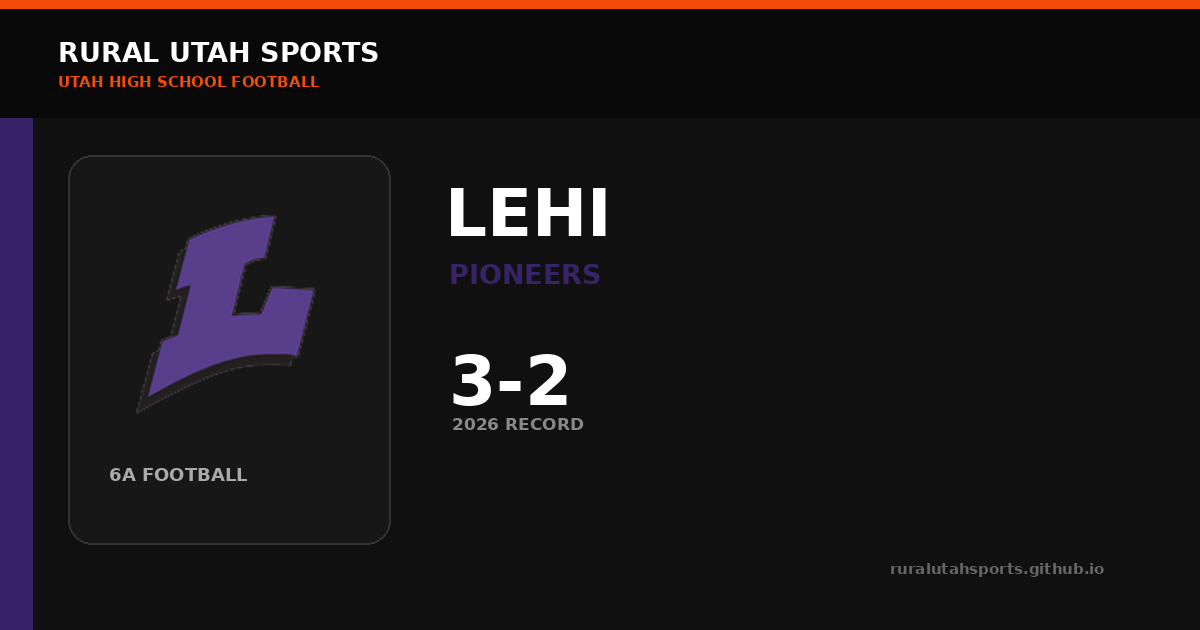
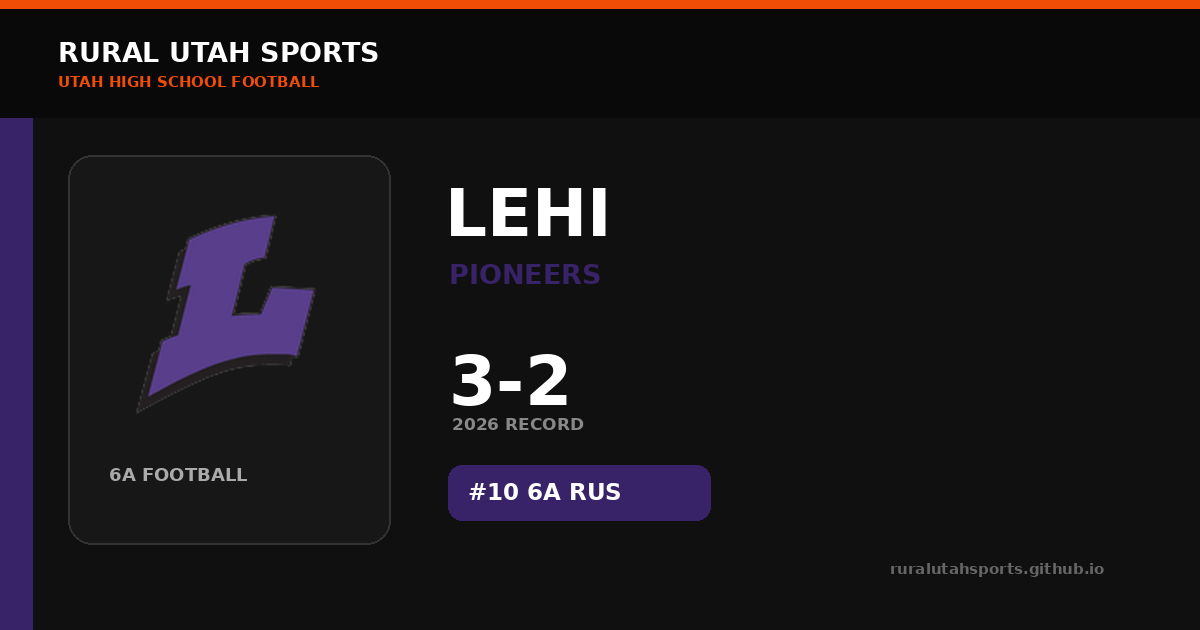
Auto-build social share previews

Changed region(s): [[0.37, 0.7238, 0.6167, 0.8444]]

diff --git a/share/team/american-fork/index.html b/share/team/american-fork/index.html
@@ -1,5 +1,5 @@
 <!doctype html><html lang="en"><head><meta charset="utf-8"><meta name="viewport" content="width=device-width,initial-scale=1">
-<title>American Fork Cavemen Football | Rural Utah Sports</title><meta name="description" content="2026 6A football • 4-1 • #3 6A RUS. Team history, games, rankings, ELO and stats."><meta name="robots" content="noindex,follow"><link rel="canonical" href="https://ruralutahsports.github.io/rural-utah-sports/team.html?team=AMERICAN%20FORK">
-<meta property="og:type" content="website"><meta property="og:site_name" content="Rural Utah Sports"><meta property="og:title" content="American Fork Cavemen Football | Rural Utah Sports"><meta property="og:description" content="2026 6A football • 4-1 • #3 6A RUS. Team history, games, rankings, ELO and stats."><meta property="og:url" content="https://ruralutahsports.github.io/rural-utah-sports/share/team/american-fork/"><meta property="og:image" content="https://ruralutahsports.github.io/rural-utah-sports/share-images/teams/american-fork.png"><meta property="og:image:width" content="1200"><meta property="og:image:height" content="630">
-<meta name="twitter:card" content="summary_large_image"><meta name="twitter:title" content="American Fork Cavemen Football | Rural Utah Sports"><meta name="twitter:description" content="2026 6A football • 4-1 • #3 6A RUS. Team history, games, rankings, ELO and stats."><meta name="twitter:image" content="https://ruralutahsports.github.io/rural-utah-sports/share-images/teams/american-fork.png"><meta http-equiv="refresh" content="0;url=https://ruralutahsports.github.io/rural-utah-sports/team.html?team=AMERICAN%20FORK">
+<title>American Fork Cavemen Football | Rural Utah Sports</title><meta name="description" content="2026 6A football • 4-1 • #4 6A RUS. Team history, games, rankings, ELO and stats."><meta name="robots" content="noindex,follow"><link rel="canonical" href="https://ruralutahsports.github.io/rural-utah-sports/team.html?team=AMERICAN%20FORK">
+<meta property="og:type" content="website"><meta property="og:site_name" content="Rural Utah Sports"><meta property="og:title" content="American Fork Cavemen Football | Rural Utah Sports"><meta property="og:description" content="2026 6A football • 4-1 • #4 6A RUS. Team history, games, rankings, ELO and stats."><meta property="og:url" content="https://ruralutahsports.github.io/rural-utah-sports/share/team/american-fork/"><meta property="og:image" content="https://ruralutahsports.github.io/rural-utah-sports/share-images/teams/american-fork.png"><meta property="og:image:width" content="1200"><meta property="og:image:height" content="630">
+<meta name="twitter:card" content="summary_large_image"><meta name="twitter:title" content="American Fork Cavemen Football | Rural Utah Sports"><meta name="twitter:description" content="2026 6A football • 4-1 • #4 6A RUS. Team history, games, rankings, ELO and stats."><meta name="twitter:image" content="https://ruralutahsports.github.io/rural-utah-sports/share-images/teams/american-fork.png"><meta http-equiv="refresh" content="0;url=https://ruralutahsports.github.io/rural-utah-sports/team.html?team=AMERICAN%20FORK">
 <style>body{margin:0;background:#111;color:#fff;font:16px Arial,sans-serif;display:grid;place-items:center;min-height:100vh}a{color:#F14D07;font-weight:800}</style></head><body><p>Opening <a href="https://ruralutahsports.github.io/rural-utah-sports/team.html?team=AMERICAN%20FORK">American Fork Cavemen Football | Rural Utah Sports</a>…</p><script>location.replace("https://ruralutahsports.github.io/rural-utah-sports/team.html?team=AMERICAN%20FORK");</script></body></html>

diff --git a/share/team/copper-hills/index.html b/share/team/copper-hills/index.html
@@ -1,5 +1,5 @@
 <!doctype html><html lang="en"><head><meta charset="utf-8"><meta name="viewport" content="width=device-width,initial-scale=1">
-<title>Copper Hills Grizzlies Football | Rural Utah Sports</title><meta name="description" content="2026 6A football • 4-1 • #8 6A RUS. Team history, games, rankings, ELO and stats."><meta name="robots" content="noindex,follow"><link rel="canonical" href="https://ruralutahsports.github.io/rural-utah-sports/team.html?team=COPPER%20HILLS">
-<meta property="og:type" content="website"><meta property="og:site_name" content="Rural Utah Sports"><meta property="og:title" content="Copper Hills Grizzlies Football | Rural Utah Sports"><meta property="og:description" content="2026 6A football • 4-1 • #8 6A RUS. Team history, games, rankings, ELO and stats."><meta property="og:url" content="https://ruralutahsports.github.io/rural-utah-sports/share/team/copper-hills/"><meta property="og:image" content="https://ruralutahsports.github.io/rural-utah-sports/share-images/teams/copper-hills.png"><meta property="og:image:width" content="1200"><meta property="og:image:height" content="630">
-<meta name="twitter:card" content="summary_large_image"><meta name="twitter:title" content="Copper Hills Grizzlies Football | Rural Utah Sports"><meta name="twitter:description" content="2026 6A football • 4-1 • #8 6A RUS. Team history, games, rankings, ELO and stats."><meta name="twitter:image" content="https://ruralutahsports.github.io/rural-utah-sports/share-images/teams/copper-hills.png"><meta http-equiv="refresh" content="0;url=https://ruralutahsports.github.io/rural-utah-sports/team.html?team=COPPER%20HILLS">
+<title>Copper Hills Grizzlies Football | Rural Utah Sports</title><meta name="description" content="2026 6A football • 4-1 • #9 6A RUS. Team history, games, rankings, ELO and stats."><meta name="robots" content="noindex,follow"><link rel="canonical" href="https://ruralutahsports.github.io/rural-utah-sports/team.html?team=COPPER%20HILLS">
+<meta property="og:type" content="website"><meta property="og:site_name" content="Rural Utah Sports"><meta property="og:title" content="Copper Hills Grizzlies Football | Rural Utah Sports"><meta property="og:description" content="2026 6A football • 4-1 • #9 6A RUS. Team history, games, rankings, ELO and stats."><meta property="og:url" content="https://ruralutahsports.github.io/rural-utah-sports/share/team/copper-hills/"><meta property="og:image" content="https://ruralutahsports.github.io/rural-utah-sports/share-images/teams/copper-hills.png"><meta property="og:image:width" content="1200"><meta property="og:image:height" content="630">
+<meta name="twitter:card" content="summary_large_image"><meta name="twitter:title" content="Copper Hills Grizzlies Football | Rural Utah Sports"><meta name="twitter:description" content="2026 6A football • 4-1 • #9 6A RUS. Team history, games, rankings, ELO and stats."><meta name="twitter:image" content="https://ruralutahsports.github.io/rural-utah-sports/share-images/teams/copper-hills.png"><meta http-equiv="refresh" content="0;url=https://ruralutahsports.github.io/rural-utah-sports/team.html?team=COPPER%20HILLS">
 <style>body{margin:0;background:#111;color:#fff;font:16px Arial,sans-serif;display:grid;place-items:center;min-height:100vh}a{color:#F14D07;font-weight:800}</style></head><body><p>Opening <a href="https://ruralutahsports.github.io/rural-utah-sports/team.html?team=COPPER%20HILLS">Copper Hills Grizzlies Football | Rural Utah Sports</a>…</p><script>location.replace("https://ruralutahsports.github.io/rural-utah-sports/team.html?team=COPPER%20HILLS");</script></body></html>

diff --git a/share/team/herriman/index.html b/share/team/herriman/index.html
@@ -1,5 +1,5 @@
 <!doctype html><html lang="en"><head><meta charset="utf-8"><meta name="viewport" content="width=device-width,initial-scale=1">
-<title>Herriman Mustangs Football | Rural Utah Sports</title><meta name="description" content="2026 6A football • 5-0 • #4 6A RUS. Team history, games, rankings, ELO and stats."><meta name="robots" content="noindex,follow"><link rel="canonical" href="https://ruralutahsports.github.io/rural-utah-sports/team.html?team=HERRIMAN">
-<meta property="og:type" content="website"><meta property="og:site_name" content="Rural Utah Sports"><meta property="og:title" content="Herriman Mustangs Football | Rural Utah Sports"><meta property="og:description" content="2026 6A football • 5-0 • #4 6A RUS. Team history, games, rankings, ELO and stats."><meta property="og:url" content="https://ruralutahsports.github.io/rural-utah-sports/share/team/herriman/"><meta property="og:image" content="https://ruralutahsports.github.io/rural-utah-sports/share-images/teams/herriman.png"><meta property="og:image:width" content="1200"><meta property="og:image:height" content="630">
-<meta name="twitter:card" content="summary_large_image"><meta name="twitter:title" content="Herriman Mustangs Football | Rural Utah Sports"><meta name="twitter:description" content="2026 6A football • 5-0 • #4 6A RUS. Team history, games, rankings, ELO and stats."><meta name="twitter:image" content="https://ruralutahsports.github.io/rural-utah-sports/share-images/teams/herriman.png"><meta http-equiv="refresh" content="0;url=https://ruralutahsports.github.io/rural-utah-sports/team.html?team=HERRIMAN">
+<title>Herriman Mustangs Football | Rural Utah Sports</title><meta name="description" content="2026 6A football • 5-0 • #5 6A RUS. Team history, games, rankings, ELO and stats."><meta name="robots" content="noindex,follow"><link rel="canonical" href="https://ruralutahsports.github.io/rural-utah-sports/team.html?team=HERRIMAN">
+<meta property="og:type" content="website"><meta property="og:site_name" content="Rural Utah Sports"><meta property="og:title" content="Herriman Mustangs Football | Rural Utah Sports"><meta property="og:description" content="2026 6A football • 5-0 • #5 6A RUS. Team history, games, rankings, ELO and stats."><meta property="og:url" content="https://ruralutahsports.github.io/rural-utah-sports/share/team/herriman/"><meta property="og:image" content="https://ruralutahsports.github.io/rural-utah-sports/share-images/teams/herriman.png"><meta property="og:image:width" content="1200"><meta property="og:image:height" content="630">
+<meta name="twitter:card" content="summary_large_image"><meta name="twitter:title" content="Herriman Mustangs Football | Rural Utah Sports"><meta name="twitter:description" content="2026 6A football • 5-0 • #5 6A RUS. Team history, games, rankings, ELO and stats."><meta name="twitter:image" content="https://ruralutahsports.github.io/rural-utah-sports/share-images/teams/herriman.png"><meta http-equiv="refresh" content="0;url=https://ruralutahsports.github.io/rural-utah-sports/team.html?team=HERRIMAN">
 <style>body{margin:0;background:#111;color:#fff;font:16px Arial,sans-serif;display:grid;place-items:center;min-height:100vh}a{color:#F14D07;font-weight:800}</style></head><body><p>Opening <a href="https://ruralutahsports.github.io/rural-utah-sports/team.html?team=HERRIMAN">Herriman Mustangs Football | Rural Utah Sports</a>…</p><script>location.replace("https://ruralutahsports.github.io/rural-utah-sports/team.html?team=HERRIMAN");</script></body></html>

diff --git a/share/team/skyridge/index.html b/share/team/skyridge/index.html
@@ -1,5 +1,5 @@
 <!doctype html><html lang="en"><head><meta charset="utf-8"><meta name="viewport" content="width=device-width,initial-scale=1">
-<title>Skyridge Falcons Football | Rural Utah Sports</title><meta name="description" content="2026 6A football • 4-1 • #5 6A RUS. Team history, games, rankings, ELO and stats."><meta name="robots" content="noindex,follow"><link rel="canonical" href="https://ruralutahsports.github.io/rural-utah-sports/team.html?team=SKYRIDGE">
-<meta property="og:type" content="website"><meta property="og:site_name" content="Rural Utah Sports"><meta property="og:title" content="Skyridge Falcons Football | Rural Utah Sports"><meta property="og:description" content="2026 6A football • 4-1 • #5 6A RUS. Team history, games, rankings, ELO and stats."><meta property="og:url" content="https://ruralutahsports.github.io/rural-utah-sports/share/team/skyridge/"><meta property="og:image" content="https://ruralutahsports.github.io/rural-utah-sports/share-images/teams/skyridge.png"><meta property="og:image:width" content="1200"><meta property="og:image:height" content="630">
-<meta name="twitter:card" content="summary_large_image"><meta name="twitter:title" content="Skyridge Falcons Football | Rural Utah Sports"><meta name="twitter:description" content="2026 6A football • 4-1 • #5 6A RUS. Team history, games, rankings, ELO and stats."><meta name="twitter:image" content="https://ruralutahsports.github.io/rural-utah-sports/share-images/teams/skyridge.png"><meta http-equiv="refresh" content="0;url=https://ruralutahsports.github.io/rural-utah-sports/team.html?team=SKYRIDGE">
+<title>Skyridge Falcons Football | Rural Utah Sports</title><meta name="description" content="2026 6A football • 4-1 • #3 6A RUS. Team history, games, rankings, ELO and stats."><meta name="robots" content="noindex,follow"><link rel="canonical" href="https://ruralutahsports.github.io/rural-utah-sports/team.html?team=SKYRIDGE">
+<meta property="og:type" content="website"><meta property="og:site_name" content="Rural Utah Sports"><meta property="og:title" content="Skyridge Falcons Football | Rural Utah Sports"><meta property="og:description" content="2026 6A football • 4-1 • #3 6A RUS. Team history, games, rankings, ELO and stats."><meta property="og:url" content="https://ruralutahsports.github.io/rural-utah-sports/share/team/skyridge/"><meta property="og:image" content="https://ruralutahsports.github.io/rural-utah-sports/share-images/teams/skyridge.png"><meta property="og:image:width" content="1200"><meta property="og:image:height" content="630">
+<meta name="twitter:card" content="summary_large_image"><meta name="twitter:title" content="Skyridge Falcons Football | Rural Utah Sports"><meta name="twitter:description" content="2026 6A football • 4-1 • #3 6A RUS. Team history, games, rankings, ELO and stats."><meta name="twitter:image" content="https://ruralutahsports.github.io/rural-utah-sports/share-images/teams/skyridge.png"><meta http-equiv="refresh" content="0;url=https://ruralutahsports.github.io/rural-utah-sports/team.html?team=SKYRIDGE">
 <style>body{margin:0;background:#111;color:#fff;font:16px Arial,sans-serif;display:grid;place-items:center;min-height:100vh}a{color:#F14D07;font-weight:800}</style></head><body><p>Opening <a href="https://ruralutahsports.github.io/rural-utah-sports/team.html?team=SKYRIDGE">Skyridge Falcons Football | Rural Utah Sports</a>…</p><script>location.replace("https://ruralutahsports.github.io/rural-utah-sports/team.html?team=SKYRIDGE");</script></body></html>

diff --git a/share/team/westlake/index.html b/share/team/westlake/index.html
@@ -1,5 +1,5 @@
 <!doctype html><html lang="en"><head><meta charset="utf-8"><meta name="viewport" content="width=device-width,initial-scale=1">
-<title>Westlake Thunder Football | Rural Utah Sports</title><meta name="description" content="2026 6A football • 4-1 • #9 6A RUS. Team history, games, rankings, ELO and stats."><meta name="robots" content="noindex,follow"><link rel="canonical" href="https://ruralutahsports.github.io/rural-utah-sports/team.html?team=WESTLAKE">
-<meta property="og:type" content="website"><meta property="og:site_name" content="Rural Utah Sports"><meta property="og:title" content="Westlake Thunder Football | Rural Utah Sports"><meta property="og:description" content="2026 6A football • 4-1 • #9 6A RUS. Team history, games, rankings, ELO and stats."><meta property="og:url" content="https://ruralutahsports.github.io/rural-utah-sports/share/team/westlake/"><meta property="og:image" content="https://ruralutahsports.github.io/rural-utah-sports/share-images/teams/westlake.png"><meta property="og:image:width" content="1200"><meta property="og:image:height" content="630">
-<meta name="twitter:card" content="summary_large_image"><meta name="twitter:title" content="Westlake Thunder Football | Rural Utah Sports"><meta name="twitter:description" content="2026 6A football • 4-1 • #9 6A RUS. Team history, games, rankings, ELO and stats."><meta name="twitter:image" content="https://ruralutahsports.github.io/rural-utah-sports/share-images/teams/westlake.png"><meta http-equiv="refresh" content="0;url=https://ruralutahsports.github.io/rural-utah-sports/team.html?team=WESTLAKE">
+<title>Westlake Thunder Football | Rural Utah Sports</title><meta name="description" content="2026 6A football • 4-1 • #8 6A RUS. Team history, games, rankings, ELO and stats."><meta name="robots" content="noindex,follow"><link rel="canonical" href="https://ruralutahsports.github.io/rural-utah-sports/team.html?team=WESTLAKE">
+<meta property="og:type" content="website"><meta property="og:site_name" content="Rural Utah Sports"><meta property="og:title" content="Westlake Thunder Football | Rural Utah Sports"><meta property="og:description" content="2026 6A football • 4-1 • #8 6A RUS. Team history, games, rankings, ELO and stats."><meta property="og:url" content="https://ruralutahsports.github.io/rural-utah-sports/share/team/westlake/"><meta property="og:image" content="https://ruralutahsports.github.io/rural-utah-sports/share-images/teams/westlake.png"><meta property="og:image:width" content="1200"><meta property="og:image:height" content="630">
+<meta name="twitter:card" content="summary_large_image"><meta name="twitter:title" content="Westlake Thunder Football | Rural Utah Sports"><meta name="twitter:description" content="2026 6A football • 4-1 • #8 6A RUS. Team history, games, rankings, ELO and stats."><meta name="twitter:image" content="https://ruralutahsports.github.io/rural-utah-sports/share-images/teams/westlake.png"><meta http-equiv="refresh" content="0;url=https://ruralutahsports.github.io/rural-utah-sports/team.html?team=WESTLAKE">
 <style>body{margin:0;background:#111;color:#fff;font:16px Arial,sans-serif;display:grid;place-items:center;min-height:100vh}a{color:#F14D07;font-weight:800}</style></head><body><p>Opening <a href="https://ruralutahsports.github.io/rural-utah-sports/team.html?team=WESTLAKE">Westlake Thunder Football | Rural Utah Sports</a>…</p><script>location.replace("https://ruralutahsports.github.io/rural-utah-sports/team.html?team=WESTLAKE");</script></body></html>

diff --git a/share/team/weber/index.html b/share/team/weber/index.html
@@ -1,5 +1,5 @@
 <!doctype html><html lang="en"><head><meta charset="utf-8"><meta name="viewport" content="width=device-width,initial-scale=1">
-<title>Weber Warriors Football | Rural Utah Sports</title><meta name="description" content="2026 6A football • 3-2 • #10 6A RUS. Team history, games, rankings, ELO and stats."><meta name="robots" content="noindex,follow"><link rel="canonical" href="https://ruralutahsports.github.io/rural-utah-sports/team.html?team=WEBER">
-<meta property="og:type" content="website"><meta property="og:site_name" content="Rural Utah Sports"><meta property="og:title" content="Weber Warriors Football | Rural Utah Sports"><meta property="og:description" content="2026 6A football • 3-2 • #10 6A RUS. Team history, games, rankings, ELO and stats."><meta property="og:url" content="https://ruralutahsports.github.io/rural-utah-sports/share/team/weber/"><meta property="og:image" content="https://ruralutahsports.github.io/rural-utah-sports/share-images/teams/weber.png"><meta property="og:image:width" content="1200"><meta property="og:image:height" content="630">
-<meta name="twitter:card" content="summary_large_image"><meta name="twitter:title" content="Weber Warriors Football | Rural Utah Sports"><meta name="twitter:description" content="2026 6A football • 3-2 • #10 6A RUS. Team history, games, rankings, ELO and stats."><meta name="twitter:image" content="https://ruralutahsports.github.io/rural-utah-sports/share-images/teams/weber.png"><meta http-equiv="refresh" content="0;url=https://ruralutahsports.github.io/rural-utah-sports/team.html?team=WEBER">
+<title>Weber Warriors Football | Rural Utah Sports</title><meta name="description" content="2026 6A football • 3-2. Team history, games, rankings, ELO and stats."><meta name="robots" content="noindex,follow"><link rel="canonical" href="https://ruralutahsports.github.io/rural-utah-sports/team.html?team=WEBER">
+<meta property="og:type" content="website"><meta property="og:site_name" content="Rural Utah Sports"><meta property="og:title" content="Weber Warriors Football | Rural Utah Sports"><meta property="og:description" content="2026 6A football • 3-2. Team history, games, rankings, ELO and stats."><meta property="og:url" content="https://ruralutahsports.github.io/rural-utah-sports/share/team/weber/"><meta property="og:image" content="https://ruralutahsports.github.io/rural-utah-sports/share-images/teams/weber.png"><meta property="og:image:width" content="1200"><meta property="og:image:height" content="630">
+<meta name="twitter:card" content="summary_large_image"><meta name="twitter:title" content="Weber Warriors Football | Rural Utah Sports"><meta name="twitter:description" content="2026 6A football • 3-2. Team history, games, rankings, ELO and stats."><meta name="twitter:image" content="https://ruralutahsports.github.io/rural-utah-sports/share-images/teams/weber.png"><meta http-equiv="refresh" content="0;url=https://ruralutahsports.github.io/rural-utah-sports/team.html?team=WEBER">
 <style>body{margin:0;background:#111;color:#fff;font:16px Arial,sans-serif;display:grid;place-items:center;min-height:100vh}a{color:#F14D07;font-weight:800}</style></head><body><p>Opening <a href="https://ruralutahsports.github.io/rural-utah-sports/team.html?team=WEBER">Weber Warriors Football | Rural Utah Sports</a>…</p><script>location.replace("https://ruralutahsports.github.io/rural-utah-sports/team.html?team=WEBER");</script></body></html>

diff --git a/share/team/lehi/index.html b/share/team/lehi/index.html
@@ -1,5 +1,5 @@
 <!doctype html><html lang="en"><head><meta charset="utf-8"><meta name="viewport" content="width=device-width,initial-scale=1">
-<title>Lehi Pioneers Football | Rural Utah Sports</title><meta name="description" content="2026 6A football • 3-2. Team history, games, rankings, ELO and stats."><meta name="robots" content="noindex,follow"><link rel="canonical" href="https://ruralutahsports.github.io/rural-utah-sports/team.html?team=LEHI">
-<meta property="og:type" content="website"><meta property="og:site_name" content="Rural Utah Sports"><meta property="og:title" content="Lehi Pioneers Football | Rural Utah Sports"><meta property="og:description" content="2026 6A football • 3-2. Team history, games, rankings, ELO and stats."><meta property="og:url" content="https://ruralutahsports.github.io/rural-utah-sports/share/team/lehi/"><meta property="og:image" content="https://ruralutahsports.github.io/rural-utah-sports/share-images/teams/lehi.png"><meta property="og:image:width" content="1200"><meta property="og:image:height" content="630">
-<meta name="twitter:card" content="summary_large_image"><meta name="twitter:title" content="Lehi Pioneers Football | Rural Utah Sports"><meta name="twitter:description" content="2026 6A football • 3-2. Team history, games, rankings, ELO and stats."><meta name="twitter:image" content="https://ruralutahsports.github.io/rural-utah-sports/share-images/teams/lehi.png"><meta http-equiv="refresh" content="0;url=https://ruralutahsports.github.io/rural-utah-sports/team.html?team=LEHI">
+<title>Lehi Pioneers Football | Rural Utah Sports</title><meta name="description" content="2026 6A football • 3-2 • #10 6A RUS. Team history, games, rankings, ELO and stats."><meta name="robots" content="noindex,follow"><link rel="canonical" href="https://ruralutahsports.github.io/rural-utah-sports/team.html?team=LEHI">
+<meta property="og:type" content="website"><meta property="og:site_name" content="Rural Utah Sports"><meta property="og:title" content="Lehi Pioneers Football | Rural Utah Sports"><meta property="og:description" content="2026 6A football • 3-2 • #10 6A RUS. Team history, games, rankings, ELO and stats."><meta property="og:url" content="https://ruralutahsports.github.io/rural-utah-sports/share/team/lehi/"><meta property="og:image" content="https://ruralutahsports.github.io/rural-utah-sports/share-images/teams/lehi.png"><meta property="og:image:width" content="1200"><meta property="og:image:height" content="630">
+<meta name="twitter:card" content="summary_large_image"><meta name="twitter:title" content="Lehi Pioneers Football | Rural Utah Sports"><meta name="twitter:description" content="2026 6A football • 3-2 • #10 6A RUS. Team history, games, rankings, ELO and stats."><meta name="twitter:image" content="https://ruralutahsports.github.io/rural-utah-sports/share-images/teams/lehi.png"><meta http-equiv="refresh" content="0;url=https://ruralutahsports.github.io/rural-utah-sports/team.html?team=LEHI">
 <style>body{margin:0;background:#111;color:#fff;font:16px Arial,sans-serif;display:grid;place-items:center;min-height:100vh}a{color:#F14D07;font-weight:800}</style></head><body><p>Opening <a href="https://ruralutahsports.github.io/rural-utah-sports/team.html?team=LEHI">Lehi Pioneers Football | Rural Utah Sports</a>…</p><script>location.replace("https://ruralutahsports.github.io/rural-utah-sports/team.html?team=LEHI");</script></body></html>
